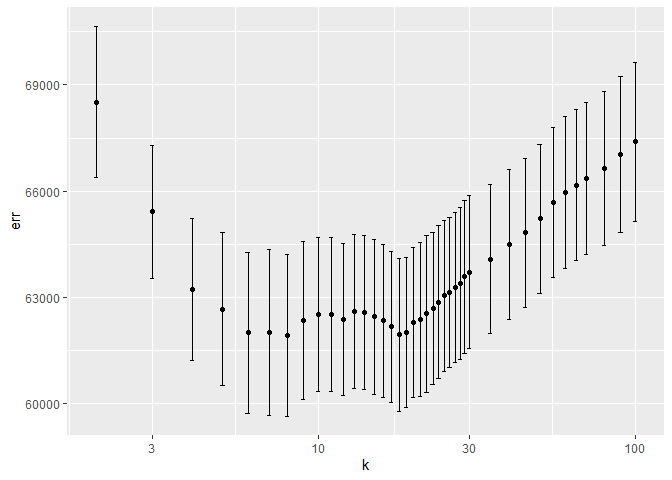
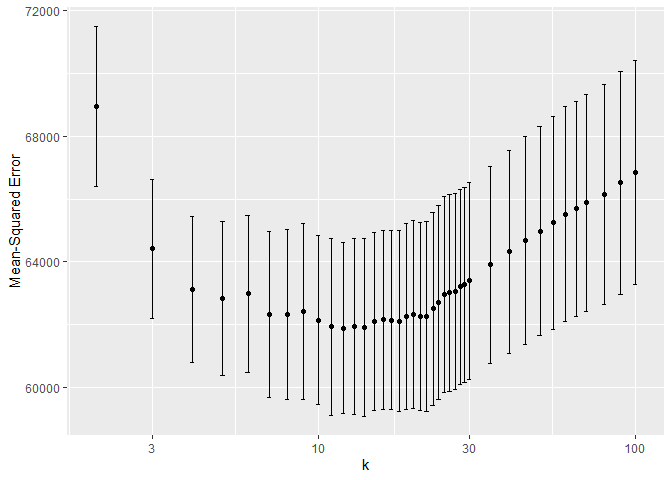
updated text

diff --git a/Output/saratoga_horserace.md b/Output/saratoga_horserace.md
@@ -19,37 +19,48 @@ the better. The three models are:
 
 For all three models, we use a train/test split of the data: the
 training data set is used to build the model and the testing set is used
-to evaluate the model’s predictive accuracy. In order to account for
-random variation in the data depending on how we split it, we use k-fold
-cross-validation which takes k number (in this case, k=10) train/test
-splits and allows us to examine the average error over each split.
-
-Consider first the baseline model. This model uses 11 main effects from
-the data set in a linear regression. It includes the variables lot size,
-age, living area, bedrooms, fireplaces, bathrooms, rooms, heating
-method, fuel method, and central air. This model performed consistently
-the worst. In this iteration, for example, it achieved an average
-out-of-sample mean-squared error of 66333.
+to evaluate the model’s performance. Consider first the baseline model.
+This model uses 11 main effects from the data set in a linear
+regression. It includes the variables lot size, age, living area,
+bedrooms, fireplaces, bathrooms, rooms, heating method, fuel method, and
+central air. This model performed consistently the worst. In this
+iteration, for example, it achieved an average out-of-sample
+mean-squared error of 65977.
 
 This is to be expected. Economic intuition indicates that we are likely
 omitting important considerations for house prices, notably land value,
 waterfront access and whether or not it is a new construction. We add
 these to our linear model to improve it, as well as an interaction term
-for lot size and waterfront access. Indeed, we see significant
-improvement in the RMSE. In this iteration, we see a mean-squared error
-of 58416.
+for lot size and waterfront access.<sup>2</sup> Indeed, we see
+significant improvement in the RMSE. In this iteration, we see a
+mean-squared error of 58350.
 
 Finally, we attempt to create a KNN model. To begin, we include all
 possible covariates and attempt to identify the value of K neighbors
 that gives us the lowest mean-squared error. The following graph shows
-the error on the vertical access and the value of k on the horizontal.
+the error on the vertical access and the value of K on the horizontal.
 
 ![](saratoga_horserace_files/figure-markdown_strict/unnamed-chunk-3-1.png)
 
-The minimum RMSE can be found at k=8 with a RMSE of 61928. Consistently,
-across many iterations of train/test splits, the KNN model had lower
-mean-squared errors than our baseline medium model but failed to beat
-the better linear model. It appears that the data available to us is
-better suited to the linear model we identified above. It is possible
-the KNN model is over-fitting to the data and therefore inducing higher
-RMSEs.
+The minimum RMSE<sup>3</sup> can be found at k=12 with a RMSE of 61883.
+Consistently, across many iterations of train/test splits, the KNN model
+had lower mean-squared errors than our baseline medium model but failed
+to beat the better linear model. It appears that the data available to
+us is better suited to the linear model we identified above. It is
+possible the KNN model is over-fitting to the data and therefore
+inducing higher RMSEs. We would therefore suggest pursuing a tax policy
+that uses the improved linear model we proposed above.
+
+### Footnotes
+
+<sup>1</sup> In order to account for random variation in the data
+depending on how we split it, we use k-fold cross-validation which takes
+k number (in this case, k=10) train/test splits and allows us to examine
+the average error over each split. <sup>2</sup> The complete model is
+`price` regressed on `lotSize`, `age`, `landValue`, `livingArea`,
+`bedrooms`, `fireplaces`, `bathrooms`, `room`, `fuel`, and an
+interaction term of `waterfront` \* `lotSize`. <sup>3</sup> In order to
+truly compare lowest RMSE, we opt for choosing the K that corresponds to
+the lowest RMSE, instead of choosing the highest K within one standard
+error of the minimum (1SE method), which could be argued for in this
+context.
